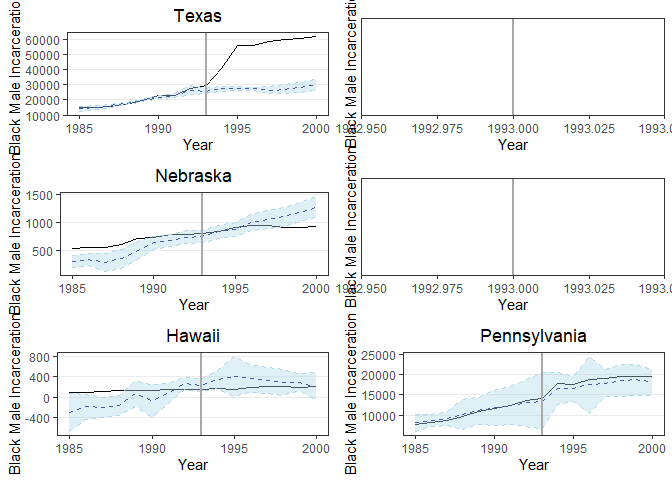
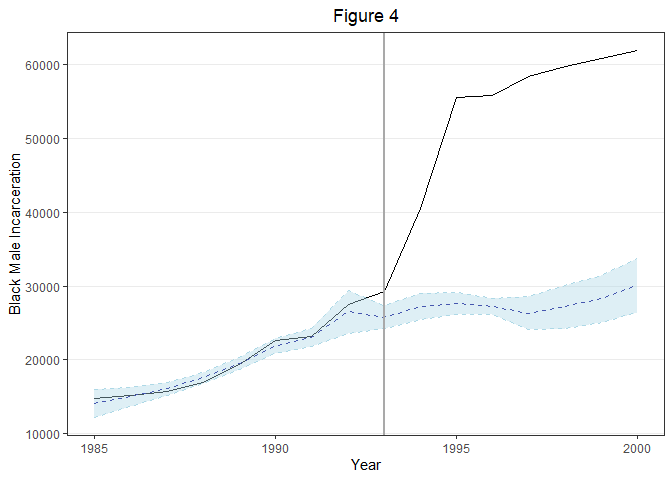
0101

diff --git a/Final_rmd.md b/Final_rmd.md
@@ -207,7 +207,7 @@ the model estimate the change of black male prisoners which is not
 affected by the policy implementation.\`
 
 When we calculate RMSE for the backward selection model, it turned out
-to be 408.54.
+to be 408.36.
 
 ### RandomForest
 
@@ -218,7 +218,7 @@ reduce our errors.
 
 ![](Final_rmd_files/figure-markdown_strict/4.3.4-1.png)
 
-The K-fold validation result shows that the RMSE is 1643.03 which is
+The K-fold validation result shows that the RMSE is 1693.5 which is
 about 4 times larger than the RMSE of lasso regression.
 
 ### Boosting
@@ -226,7 +226,7 @@ about 4 times larger than the RMSE of lasso regression.
 Lastly, we used a boosting model with the same baseline model and did
 K-fold validation as we did above.
 
-The result of our K-fold cross validation shows that the RMSE is 863.4
+The result of our K-fold cross validation shows that the RMSE is 834.31
 which is lower than the RandomForest model but still higher than the
 lasso regression. \[Table 3\] shows that the lasso regression has the
 best predictive power among all the models that we tested.
@@ -238,7 +238,7 @@ best predictive power among all the models that we tested.
     ## +-----------+--------+--------------+----------+
     ## | **Model** | Lasso  | Randomforest | Boosting |
     ## +-----------+--------+--------------+----------+
-    ## | **RMSE**  | 408.54 |   1643.03    |  863.40  |
+    ## | **RMSE**  | 408.36 |   1693.50    |  834.31  |
     ## +-----------+--------+--------------+----------+
 
 ### Comparing the best model's predictions with the observed data
@@ -259,31 +259,39 @@ fits very well on real data of controlled states.
 For inference purposes, it is recommended to estimate a confidence
 interval rather than showing the point estimate only. Therefore, we used
 a bootstrap to calculate the standard deviation of the parameter's
-resampling distribution. The results are ADD THE RESULTS AND PLOT
+resampling distribution, and illustrated the results on figure 4.
 
 ![](Final_rmd_files/figure-markdown_strict/4.3.10-1.png)
 
+The average treatment effect calculated by taking the average of the
+simple difference of outcomes between the observed data and the
+predictions yielded by our most accurate model was:
+
     ## [1] 25254.73
+
+When comparing it to the Diff-in-Diff estimator, we can observe a
+decrease of approximately 12% on the magnitude of the effect.
 
 Conclusion
 ----------
 
 The analysis showed that alternative supervised learning methods can
-play a big role in predicting counterfactuals when there are reasons to
-believe that the traditional assumptions don't hold. It is important to
-notice that it is upon to the researcher's discretion how to do it in
-practice, and it might open up space for "p-hacking" when moving away
-from the best practices. In that sense, peer review/validation is
-crucial to ensure that the predictions are being yielded by models that
-minimize out of sample root mean square error, and randomness is
-fundamental to guarantee that the results aren't being conveniently
-tampered.
+play a big role in predicting counterfactuals either when there are
+reasons to believe that the traditional assumptions don't hold, or to
+corroborate the assumptions as well. It is important to notice that it
+is upon to the researcher's discretion how to do it in practice, and it
+might open up space for "p-hacking" when moving away from the best
+practices. In that sense, peer review/validation is crucial to ensure
+that the predictions are being yielded by models that minimize out of
+sample root mean square error, and randomness is fundamental to
+guarantee that the results aren't being conveniently tampered.
 
-Our dataset has only 816 observations due to the limitation of number of
-states and time span. We could have increased our model's predictive
-power if we had had more observations, however, our model fits very well
-on real data of contolled states suggesting the possibility of
-predicting counterfactuals.
+Given that our dataset was consisted of only 816 observations and a
+limitted amount of covariates, our best judgement is that the
+alternative model yielded satisfactory results. We could have increased
+our model's predictive power if we had had more observations, however,
+our model fits very well on real data of contolled states suggesting the
+possibility of predicting counterfactuals.
 
 References
 ----------
